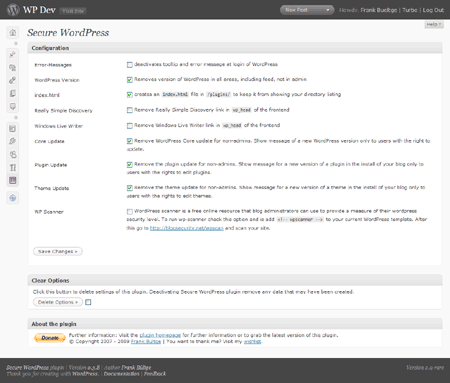
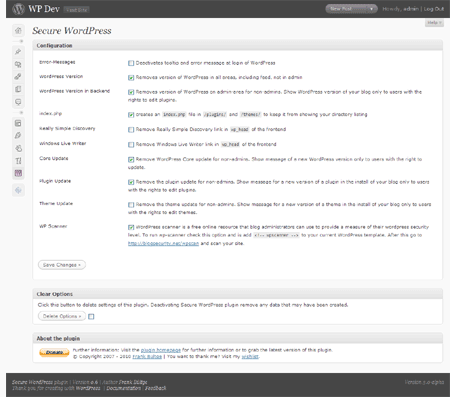
Update Secure WordPress Plugin
git-svn-id: https://plugins.svn.wordpress.org/secure-wordpress/trunk@192600 b8457f37-d9ea-0310-8a92-e5e31aec5664

diff --git a/css/remove_update_plugins.css b/css/remove_update_plugins.css
@@ -1,0 +1,3 @@
+.update-plugins {
+	display: none !important;
+}

diff --git a/secure-wordpress.php b/secure-wordpress.php
@@ -2,7 +2,7 @@
 /**
  * @package Secure WordPress
  * @author Frank B&uuml;ltge
- * @version 0.5
+ * @version 0.6
  */
  
 /*
@@ -10,9 +10,9 @@ Plugin Name: Secure WordPress
 Plugin URI: http://bueltge.de/wordpress-login-sicherheit-plugin/652/
 Description: Little basics for secure your WordPress-installation.
 Author: Frank B&uuml;ltge
-Version: 0.5
+Version: 0.6
 Author URI: http://bueltge.de/
-Last Change: 22.12.2009 13:36:08
+Last Change: 11.01.2010 12:18:29
 License: GPL
 */
 
@@ -402,7 +402,7 @@ if ( !class_exists('SecureWP') ) {
 					$menutitle = str_replace( 'http://', 'https://', $menutitle );
 				
 				if ( version_compare( $wp_version, '2.7alpha', '>' ) && function_exists('add_contextual_help') ) {
-					$hook = add_submenu_page( 'options-general.php', __('Secure WordPress', FB_SWP_TEXTDOMAIN), $menutitle, 9, basename(__FILE__), array(&$this, 'display_page') );
+					$hook = add_submenu_page( 'options-general.php', __('Secure WordPress', FB_SWP_TEXTDOMAIN), $menutitle, 'manage_options', basename(__FILE__), array(&$this, 'display_page') );
 					add_contextual_help( $hook, __('<a href="http://wordpress.org/extend/plugins/secure-wordpress/">Documentation</a>', FB_SWP_TEXTDOMAIN) );
 					//add_filter( 'contextual_help', array(&$this, 'contextual_help') );
 				} else {
@@ -461,7 +461,7 @@ if ( !class_exists('SecureWP') ) {
 		function replace_wp_version() {
 		
 			if ( !is_admin() ) {
-				global $wp_version;
+				global $wp_version, $ver;
 				
 				// random value
 				$v = intval( rand(0, 9999) );
@@ -492,6 +492,9 @@ if ( !class_exists('SecureWP') ) {
 		 */
 		function remove_core_update() {
 			if ( !current_user_can('edit_plugins') ) {
+				add_action( 'admin_init', create_function( '$a', "remove_action( 'admin_notices', 'maintenance_nag' );" ) );
+				add_action( 'admin_init', create_function( '$a', "remove_action( 'admin_notices', 'update_nag', 3 );" ) );
+				add_action( 'admin_init', create_function( '$a', "remove_action( 'admin_init', '_maybe_update_core' );" ) );
 				add_action( 'init', create_function( '$a', "remove_action( 'init', 'wp_version_check' );" ) );
 				add_filter( 'pre_option_update_core', create_function( '$a', "return null;" ) );
 			}
@@ -504,7 +507,10 @@ if ( !class_exists('SecureWP') ) {
 		 * @package Secure WordPress
 		 */
 		function remove_plugin_update() {
-			if ( !current_user_can('edit_plugins') ) {
+			if ( !current_user_can('update_plugins') ) {
+				wp_enqueue_style( 'remove-update-plugins', WP_PLUGIN_URL . '/' . FB_SWP_BASEFOLDER . '/css/remove_update_plugins.css' );
+				add_action( 'admin_init', create_function( '$a', "remove_action( 'admin_init', 'wp_plugin_update_rows' );" ), 2 );
+				add_action( 'admin_init', create_function( '$a', "remove_action( 'admin_init', '_maybe_update_plugins' );" ), 2 );
 				add_action( 'admin_menu', create_function( '$a', "remove_action( 'load-plugins.php', 'wp_update_plugins' );" ) );
 				add_action( 'admin_init', create_function( '$a', "remove_action( 'admin_init', 'wp_update_plugins' );" ), 2 );
 				add_action( 'init', create_function( '$a', "remove_action( 'init', 'wp_update_plugins' );" ), 2 );
@@ -560,6 +566,7 @@ if ( !class_exists('SecureWP') ) {
 		function wp_scanner() {
 			echo '<!-- wpscanner -->' . "\n";
 		}
+		
 		
 		/**
 		 * update options
